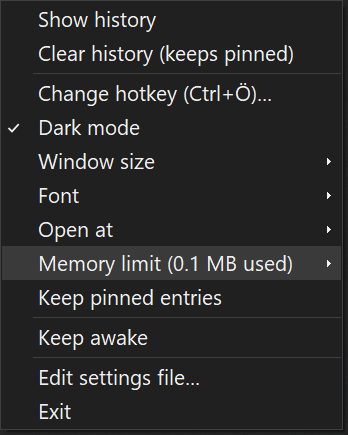
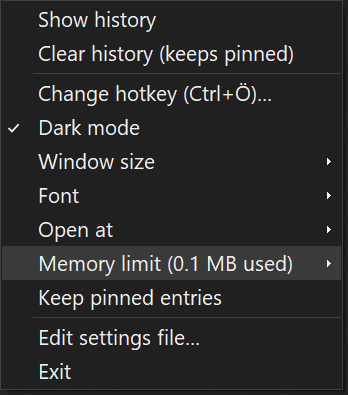
Release 1.4.1: documentation changes

Changed region(s): [[0.0, 0.0, 1.0, 0.9722], [0.9195, 0.3646, 0.9483, 0.4557], [0.0287, 0.2734, 0.0575, 0.3342]]

diff --git a/README.md b/README.md
@@ -22,7 +22,6 @@ in a text file.
   line, or to pin or remove them together
 - Dark or light, three sizes, a choice of fonts; settings in the tray menu and in a simple text file
   (`settings.ini`); skips what password managers mark as private
-- **Keep awake** (optional, unrelated to the clipboard): keeps the session from going idle
 
 ## Install
 
@@ -31,7 +30,7 @@ Needs Windows 10 or 11 with Windows PowerShell 5.1, which comes with Windows. Do
 folder:
 
 ```powershell
-Expand-Archive .\psclip-1.4.0.zip -DestinationPath $env:LOCALAPPDATA\tools   # creates ...\tools\psclip
+Expand-Archive .\psclip-1.4.1.zip -DestinationPath $env:LOCALAPPDATA\tools   # creates ...\tools\psclip
 cd $env:LOCALAPPDATA\tools\psclip
 powershell -NoProfile -ExecutionPolicy Bypass -File .\Install.ps1 -Autostart
 ```
@@ -64,7 +63,7 @@ Right-click an entry for the same actions, and the tray icon (a small blue clipb
 ## Documentation
 
 - [Install, update, uninstall](docs/install.md) - with git, what `Install.ps1` does, the execution policy
-- [Usage](docs/usage.md) - popup, text in images, preview, editing, tray menu, keep awake, keeping pinned entries
+- [Usage](docs/usage.md) - popup, text in images, preview, editing, tray menu, keeping pinned entries
 - [Options](docs/options.md) - all settings and their defaults, the settings file, hotkeys
 - [Limitations](docs/limitations.md)
 - [Development](docs/development.md) - how it works, tests, releases

diff --git a/docs/options.md b/docs/options.md
@@ -20,8 +20,6 @@ defaults** for a new `settings.ini`: `MaxMemory = 500MB`, `OpenAt = TextCursor` 
 | `MaxMemory`         | `100MB`  | Memory the history may use: `100MB`, `500MB` or `1GB` (pinned entries count, but are never dropped) |
 | `KeepPinned`        | off      | *Keep pinned entries*: pinned entries survive restarts, encrypted (see [Keeping pinned entries](usage.md#keeping-pinned-entries)) |
 | `Preview`           | off      | Open the popup with the preview (`F3`) shown                                |
-| `KeepAwake`         | off      | *Keep awake* switched on                                                    |
-| `KeepAwakeSeconds`  | `30`     | Idle seconds (1 to 3600) before *Keep awake* presses F15                    |
 | `MaxEntryLength`    | `1000000`| Texts with more characters are not recorded                                 |
 | `-InstanceName`     | `PsClipboardManager` | Parameter only: to run a second, separate instance (the end-to-end test does) |
 
@@ -37,7 +35,7 @@ Size = M
 # Where the hotkey opens the popup: Mouse (at the mouse pointer) or TextCursor (below the text cursor)
 OpenAt = TextCursor
 
-KeepAwake = true
+Theme = Light
 ```
 
 - **Saved changes apply at once** - no restart needed (which would cost the history). A new hotkey that another

diff --git a/docs/usage.md b/docs/usage.md
@@ -97,7 +97,6 @@ The tray icon is a small blue clipboard, possibly in the `^` overflow area of th
     entries right away
   - *Keep pinned entries* - on / off: save the pinned entries for the next start (see
     [Keeping pinned entries](#keeping-pinned-entries))
-  - *Keep awake* - on / off (off by default)
   - *Edit settings file...* - opens `settings.ini` (see [Settings file](options.md#settings-file))
   - *Exit*
 
@@ -106,13 +105,6 @@ Without that file (`ClipboardManager.ps1` started by itself), they last until ps
 creates it.
 
 <br clear="right">
-
-## Keep awake
-
-Has nothing to do with the clipboard - it replaces a separate "mouse mover" tool. When switched on, psclip checks
-every second how long there has been no mouse or keyboard input; after 30 seconds (`-KeepAwakeSeconds`) it presses
-the **F15** key, which no keyboard has and no program uses (unlike Pause, which freezes the output of console
-windows). Windows then never sees the session as idle. While you are working, nothing is sent.
 
 ## Keeping pinned entries
 

diff --git a/docs/install.md b/docs/install.md
@@ -10,7 +10,7 @@ psclip needs Windows 10 or 11 with Windows PowerShell 5.1, which comes with Wind
 then in a PowerShell window in your Downloads folder:
 
 ```powershell
-Expand-Archive .\psclip-1.4.0.zip -DestinationPath $env:LOCALAPPDATA\tools   # creates ...\tools\psclip
+Expand-Archive .\psclip-1.4.1.zip -DestinationPath $env:LOCALAPPDATA\tools   # creates ...\tools\psclip
 cd $env:LOCALAPPDATA\tools\psclip
 powershell -NoProfile -ExecutionPolicy Bypass -File .\Install.ps1 -Autostart
 ```
@@ -46,7 +46,7 @@ only be read on the computer that saved them.
 Settings given to `Install.ps1` go into `settings.ini`:
 
 ```powershell
-powershell -NoProfile -ExecutionPolicy Bypass -File .\Install.ps1 -Autostart -Hotkey 'Ctrl+Alt+V' -Theme Light -KeepAwake
+powershell -NoProfile -ExecutionPolicy Bypass -File .\Install.ps1 -Autostart -Hotkey 'Ctrl+Alt+V' -Theme Light -Size L
 ```
 
 Afterwards, change settings in psclip's tray menu - it saves them to `settings.ini` - or in the file itself (*Edit

diff --git a/docs/development.md b/docs/development.md
@@ -10,7 +10,7 @@ agents, but just as useful for people.
 | File                   | Content                                                                      |
 | ---------------------- | ---------------------------------------------------------------------------- |
 | `ClipboardManager.ps1` | The app's entry point: help, parameters, settings, startup                   |
-| `src/*.ps1`            | The app's functions by topic: hotkey, history, popup, theme, OCR, keep awake, windows, settings file |
+| `src/*.ps1`            | The app's functions by topic: hotkey, history, popup, theme, OCR, windows, settings file |
 | `src/*.cs`             | C# helpers for Windows APIs PowerShell cannot call directly                  |
 | `Install.ps1`          | Start menu / autostart shortcuts, `settings.ini`                             |
 | `tests/`               | Unit tests and the end-to-end test                                           |

diff --git a/CHANGELOG.md b/CHANGELOG.md
@@ -1,5 +1,9 @@
 # Changelog
 
+## 1.4.1 - 2026-11-20
+
+- Documentation changes
+
 ## 1.4.0 - 2026-11-18
 
 - `Ctrl+C` in the popup only copies the selected entries to the clipboard, without pasting: the popup closes, the
@@ -89,6 +93,5 @@ rights, and nothing written to disk unless you ask for it.
 - **Keep pinned entries** (optional): pinned entries survive restarts, saved encrypted for your Windows account
 - Dark and light theme, three popup sizes, hotkey and settings in the tray menu
 - Skips content that password managers mark as private
-- **Keep awake** (optional, unrelated to the clipboard): presses F15 when you have been idle for 30 seconds
 - `Install.ps1` creates Start menu and autostart shortcuts, with a memory limit of 500 MB, the popup at the text
   cursor and *Keep pinned entries* on unless you choose otherwise; Windows PowerShell 5.1 only
